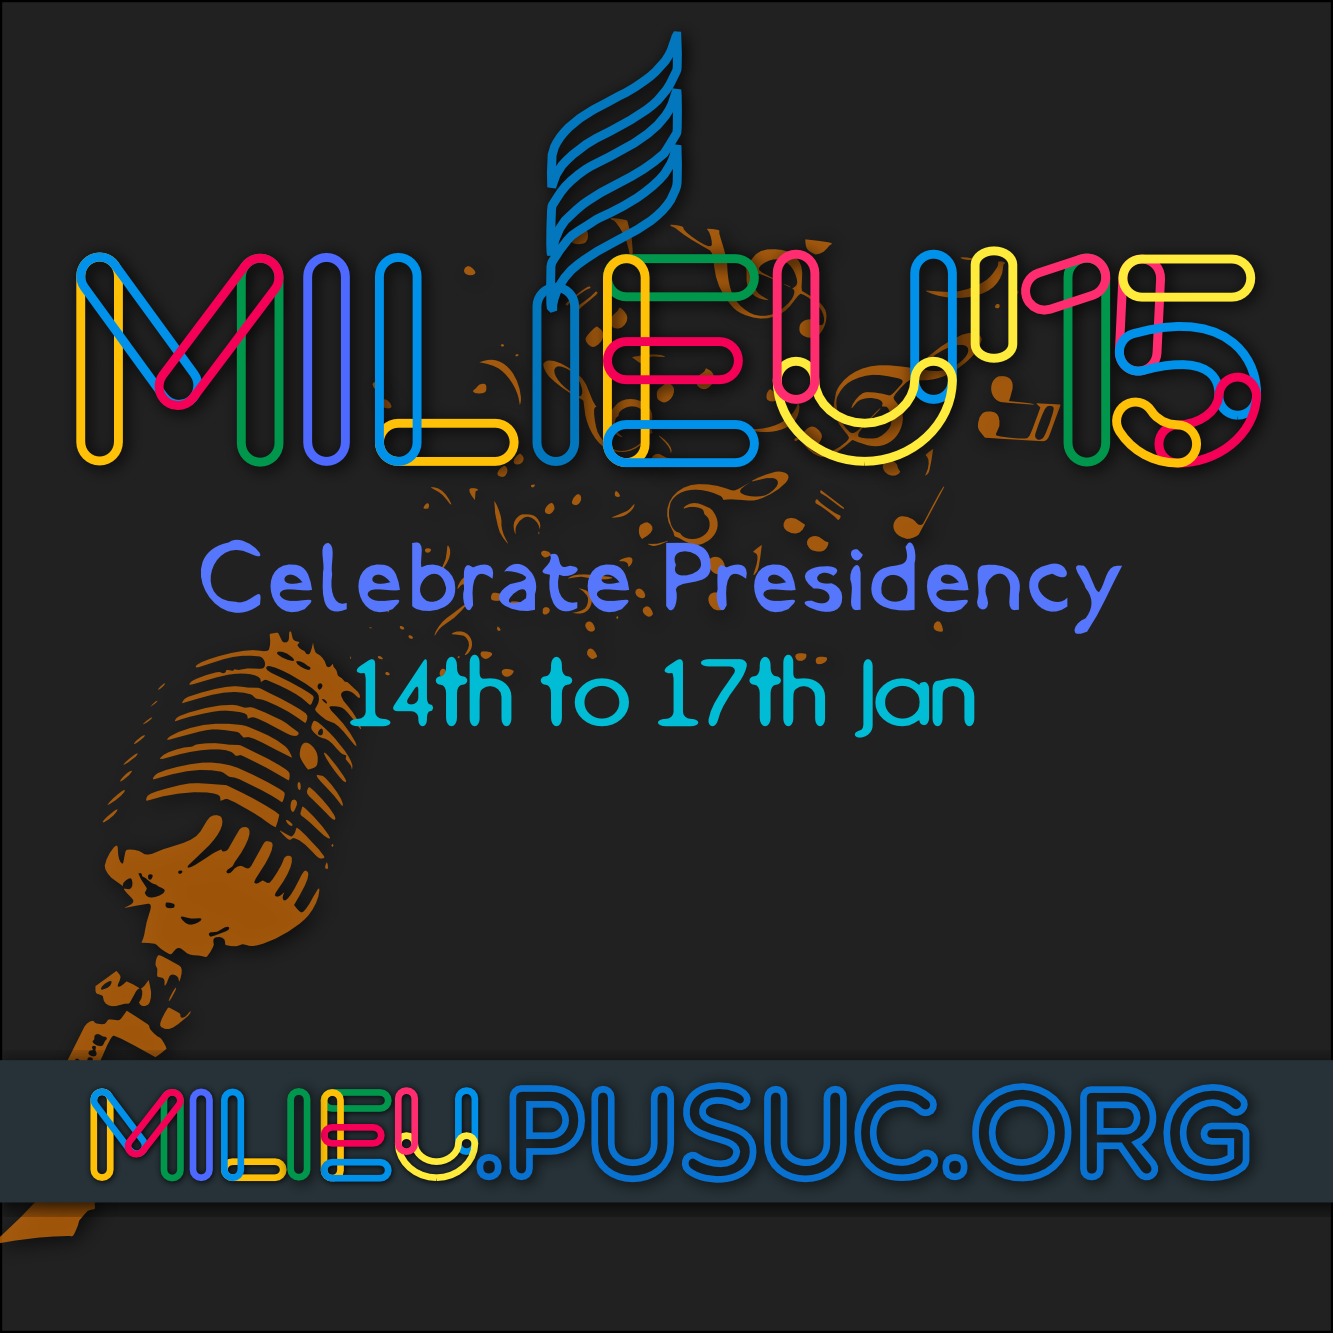
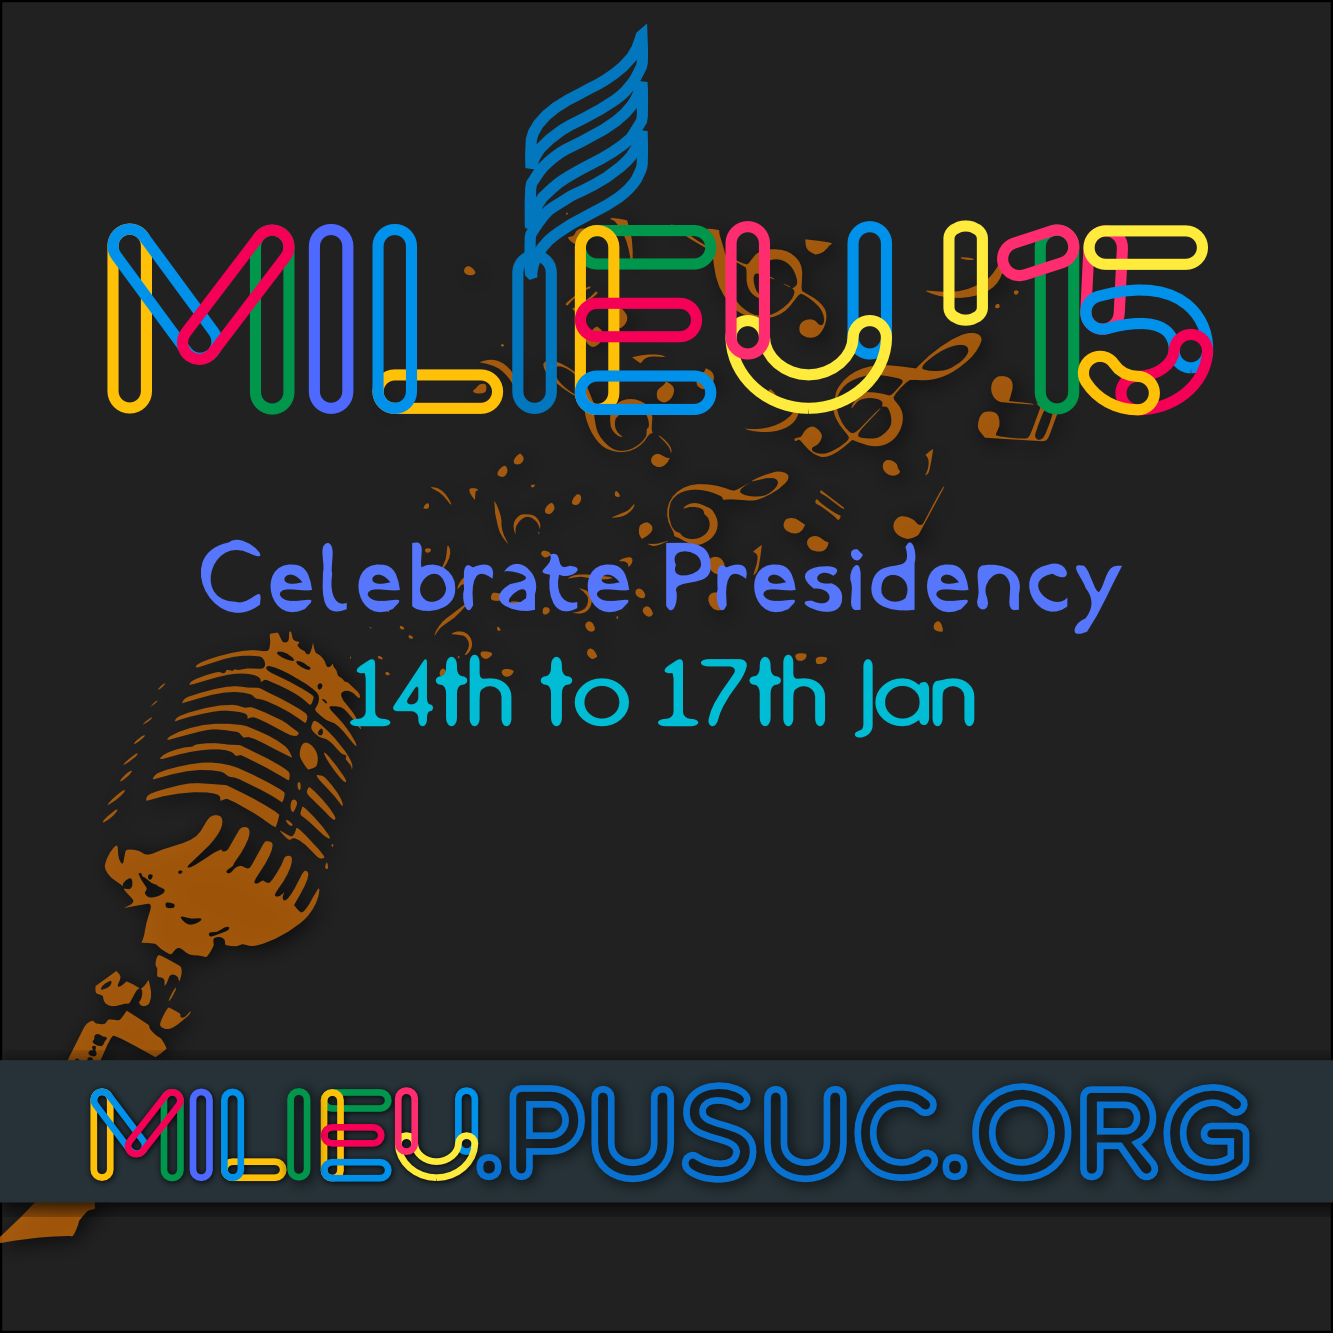
new cover

Changed region(s): [[0.0308, 0.0, 0.9535, 0.3691]]

diff --git a/mainindex.html b/mainindex.html
@@ -67,7 +67,7 @@
           <div class="demo-3">
             <div id="large-header" class="large-header">
               <img class=" animated  bounceInUp baloon " src="img/large/hot.svg"></img>
-              <object type="image/svg+xml" data="img/large/cover.svg" class="linefd"></object> 
+              
               <canvas id="demo-canvas"></canvas>
               <div class="main-title ">
                 <object type="image/svg+xml" data="img/large/logo.svg"></object>

diff --git a/css/component.css b/css/component.css
@@ -325,7 +325,7 @@ span.nav-close:before {
     
     overflow: hidden;
 	
-background-image: linear-gradient(to bottom, #000000 0%, rgba(54, 101, 123, 0.56) 100%);
+background-image: linear-gradient(to bottom, #000000 0%, rgba(54, 101, 123, 0.56) 100%),url(../img/large/cover.svg);
    
 	z-index: 1;
 }
@@ -413,10 +413,10 @@ display:block;
 }
 
 .linefd{
-width: 100%;
+
 
 position: absolute;
-    bottom: 0;
+  top: 0;
     overflow: hidden;
 }
 
